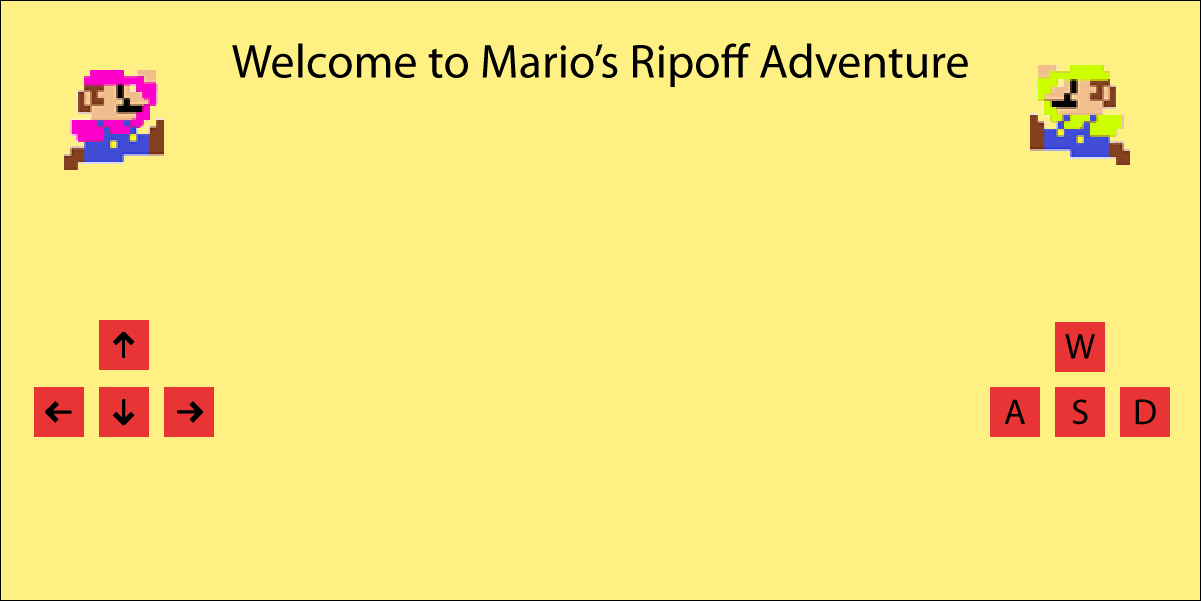
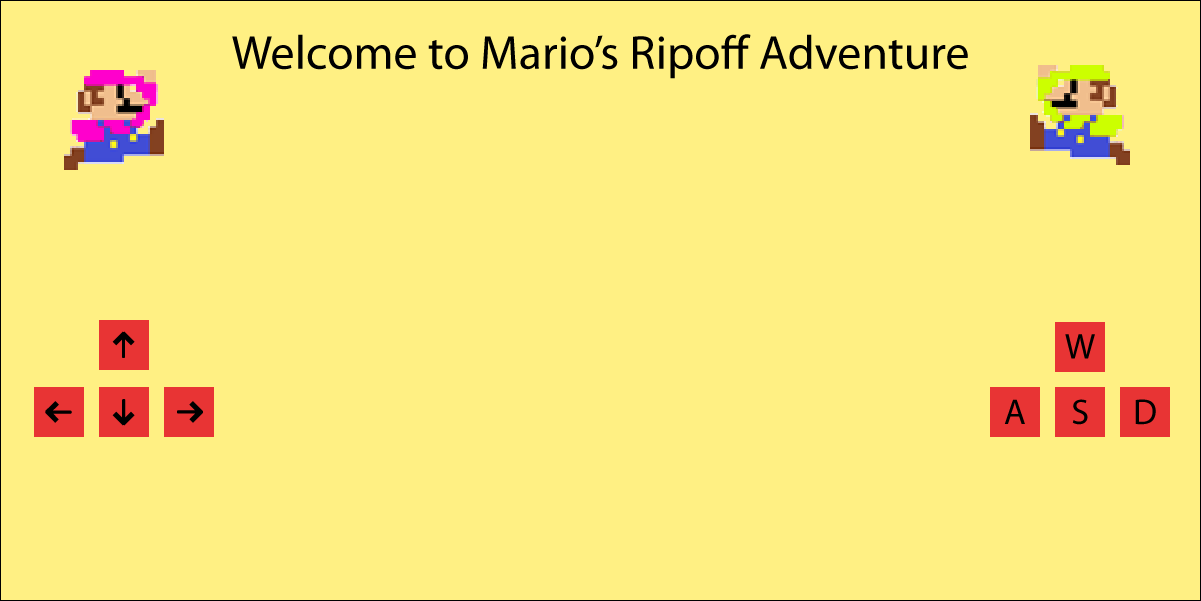
Game naming changes

Changed region(s): [[0.1848, 0.0599, 0.8318, 0.1498]]

diff --git a/Game/Game/Properties/AssemblyInfo.cs b/Game/Game/Properties/AssemblyInfo.cs
@@ -5,10 +5,10 @@ using System.Runtime.InteropServices;
 // General Information about an assembly is controlled through the following 
 // set of attributes. Change these attribute values to modify the information
 // associated with an assembly.
-[assembly: AssemblyTitle("Game")]
-[assembly: AssemblyProduct("Game")]
-[assembly: AssemblyDescription("")]
-[assembly: AssemblyCompany("")]
+[assembly: AssemblyTitle("Mario's Ripoff Adventure")]
+[assembly: AssemblyProduct("Mario's Ripoff Adventure")]
+[assembly: AssemblyDescription("Play This!")]
+[assembly: AssemblyCompany("The CS122 A-Team")]
 [assembly: AssemblyCopyright("Copyright ©  2012")]
 [assembly: AssemblyTrademark("")]
 [assembly: AssemblyCulture("")]
